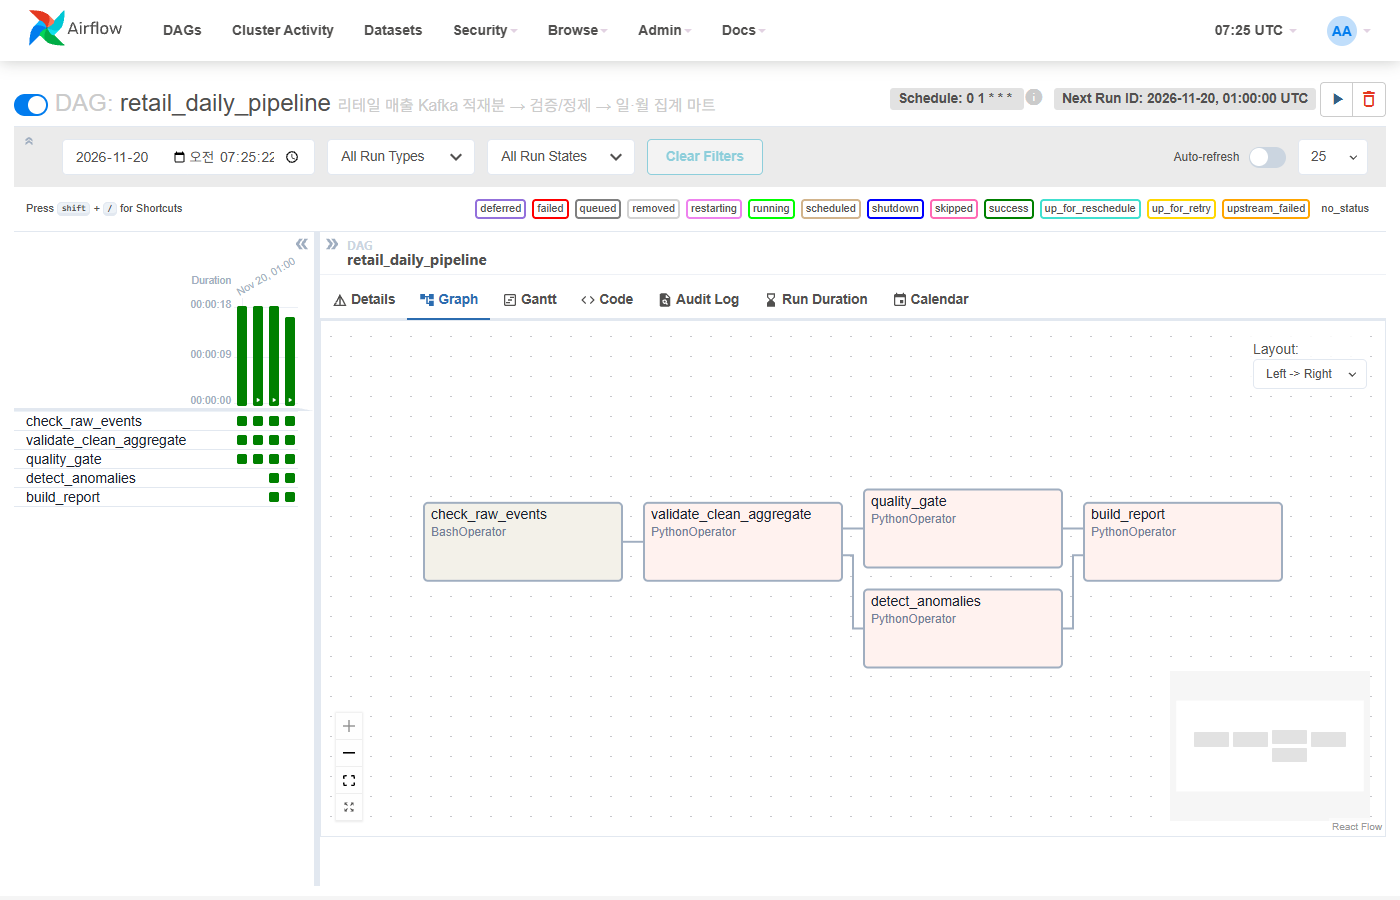
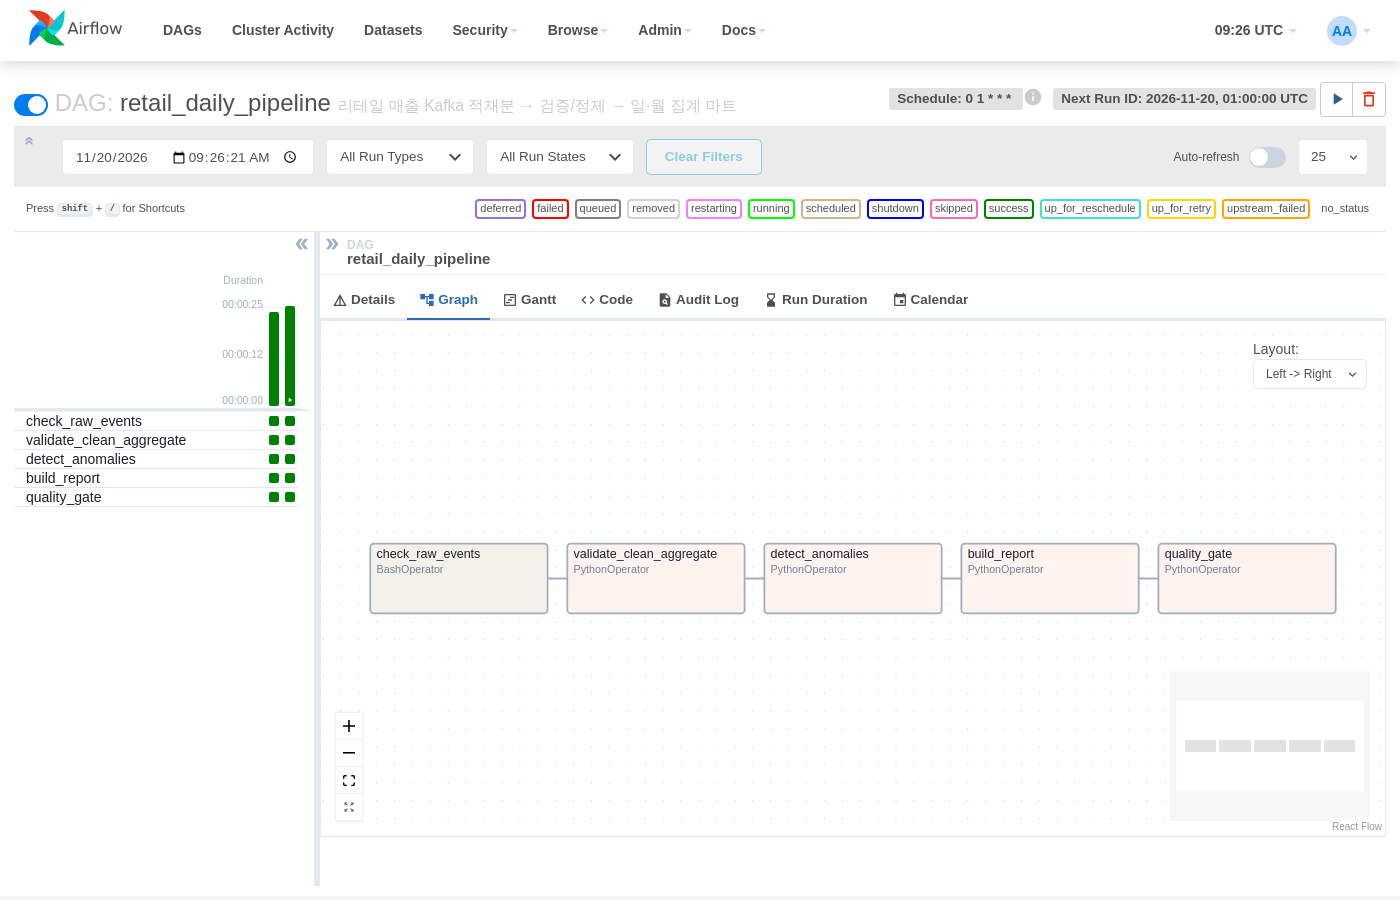
Retail: auto-flag synthetic data, prove the quality gate fails
- ETL: chi-square uniformity check on amount/units -> report warning
- DAG: etl >> detect >> report >> gate, so a failed run still gets its report
- Report: gate pass/fail banner, rejected-by-reason table with examples
- kafka/inject_bad_events.py: 400 bad events (7 rules) via Kafka, --cleanup
- Screenshots 06-10 re-taken, 11-13 for the gate-failure run
- screenshot_retail.js: AIRFLOW_URL override, `fail` mode

diff --git a/tools/screenshot_retail.js b/tools/screenshot_retail.js
@@ -4,8 +4,14 @@ const fs = require('fs');
 
 const ROOT = path.join(__dirname, '..');
 const OUT = path.join(ROOT, 'docs/screenshots');
-const AF = 'http://localhost:8081';
+// 호스트 Chrome이 Docker 포트포워딩과 안 맞으면 컨테이너 안에서 AIRFLOW_URL=http://airflow:8080 으로 실행
+const AF = process.env.AIRFLOW_URL || 'http://localhost:8081';
 const DAG = 'retail_daily_pipeline';
+// 기본: 정상 실행 화면(06~10). `node tools/screenshot_retail.js fail` : 불량 주입 후 게이트 실패 화면(11~13)
+const FAIL = process.argv[2] === 'fail';
+const NAMES = FAIL
+  ? { grid: '11_retail_gate_failed_grid', log: '12_retail_gate_failed_log', report: '13_retail_report_gate_failed' }
+  : { grid: '07_retail_dag_grid', log: '09_retail_quality_gate_log', report: '10_retail_quality_report' };
 fs.mkdirSync(OUT, { recursive: true });
 
 const wait = ms => new Promise(r => setTimeout(r, ms));
@@ -20,29 +26,34 @@ async function shot(page, name, fullPage = true) {
   const page = await browser.newPage();
   await page.setViewport({ width: 1400, height: 900 });
 
-  await page.goto(`${AF}/login`, { waitUntil: 'networkidle2' });
+  await page.goto(`${AF}/login/`, { waitUntil: 'load' });
+  await page.waitForSelector('#username', { timeout: 30000 });
   await page.type('#username', 'admin');
   await page.type('#password', 'admin');
-  await Promise.all([page.waitForNavigation({ waitUntil: 'networkidle2' }), page.click('[type=submit]')]);
+  await Promise.all([page.waitForNavigation({ waitUntil: 'load' }), page.click('[type=submit]')]);
 
-  await page.goto(`${AF}/home`, { waitUntil: 'networkidle2' });
-  await wait(1500);
-  await shot(page, '06_airflow_dags_both', false);
+  if (!FAIL) {
+    await page.goto(`${AF}/home`, { waitUntil: 'load' });
+    await wait(1500);
+    await shot(page, '06_airflow_dags_both', false);
+  }
 
-  await page.goto(`${AF}/dags/${DAG}/grid`, { waitUntil: 'networkidle2' });
+  await page.goto(`${AF}/dags/${DAG}/grid`, { waitUntil: 'load' });
   await wait(2500);
-  await shot(page, '07_retail_dag_grid', false);
+  await shot(page, NAMES.grid, false);
 
-  await page.goto(`${AF}/dags/${DAG}/grid?tab=graph`, { waitUntil: 'networkidle2' });
-  await wait(3000);
-  await shot(page, '08_retail_dag_graph', false);
+  if (!FAIL) {
+    await page.goto(`${AF}/dags/${DAG}/grid?tab=graph`, { waitUntil: 'load' });
+    await wait(3000);
+    await shot(page, '08_retail_dag_graph', false);
+  }
 
   const runs = await page.evaluate(async (dag) => (await (await fetch(`/api/v1/dags/${dag}/dagRuns?order_by=-execution_date&limit=1`)).json()), DAG);
   const runId = runs.dag_runs && runs.dag_runs[0] && runs.dag_runs[0].dag_run_id;
   if (runId) {
-    await page.goto(`${AF}/dags/${DAG}/grid?dag_run_id=${encodeURIComponent(runId)}&task_id=quality_gate&tab=logs`, { waitUntil: 'networkidle2' });
+    await page.goto(`${AF}/dags/${DAG}/grid?dag_run_id=${encodeURIComponent(runId)}&task_id=quality_gate&tab=logs`, { waitUntil: 'load' });
     await wait(3500);
-    await shot(page, '09_retail_quality_gate_log', false);
+    await shot(page, NAMES.log, false);
   } else {
     console.log('no dag run found, skipping log screenshot', JSON.stringify(runs).slice(0, 200));
   }
@@ -52,7 +63,7 @@ async function shot(page, name, fullPage = true) {
   // DAG 의 build_report 태스크가 만든 실제 산출물을 그대로 연다
   const reportFile = path.join(ROOT, 'data/retail/quality/report.html');
   await rp.goto(require('url').pathToFileURL(reportFile).href, { waitUntil: 'load' });
-  await shot(rp, '10_retail_quality_report');
+  await shot(rp, NAMES.report);
 
   await browser.close();
   console.log('done');

diff --git a/etl/retail_report.py b/etl/retail_report.py
@@ -10,6 +10,8 @@ import html
 import json
 import os
 
+from retail_etl import MAX_REJECTED_RATE
+
 BASE = os.getenv("RETAIL_DATA_DIR", "/opt/airflow/data/retail")
 
 
@@ -51,7 +53,21 @@ th{color:var(--muted);font-weight:600}.bar{background:var(--bar);height:10px;bor
 .warn{background:var(--warnbg);border:1px solid var(--warnline);border-radius:8px;padding:10px 14px;margin:6px 0;font-size:14px}
 .cols{display:grid;grid-template-columns:repeat(auto-fit,minmax(420px,1fr));gap:24px}
 .yes{font-weight:600}.no{color:var(--muted)}
+.gate{border-radius:8px;padding:12px 16px;margin:0 0 20px;font-size:15px;font-weight:600;border:1px solid}
+.gate.fail{background:var(--failbg);border-color:var(--failline)}.gate.pass{background:var(--passbg);border-color:var(--passline)}
+.gate .d{font-weight:400;font-size:13px;margin-top:4px}
+:root{--failbg:#ffebe9;--failline:#cf222e;--passbg:#dafbe1;--passline:#1a7f37}
+@media (prefers-color-scheme: dark){:root{--failbg:#3c1618;--failline:#da3633;--passbg:#0f2d1a;--passline:#2ea043}}
 """
+
+REASON_KO = {
+    "missing_store_id": "매장 ID 누락", "missing_date": "날짜 누락", "missing_product_id": "상품 ID 누락",
+    "missing_sales_amount": "매출액 누락", "missing_units_sold": "수량 누락",
+    "bad_date": "날짜 파싱 실패", "future_date": "미래 날짜", "bad_amount": "매출액 파싱 실패",
+    "non_positive_amount": "매출액 ≤ 0", "amount_too_large": "매출액 상한 초과",
+    "bad_units": "수량 파싱 실패", "fractional_units": "소수 수량", "non_positive_units": "수량 ≤ 0",
+    "units_too_large": "수량 상한 초과", "duplicate_transaction": "업무 중복 거래",
+}
 
 
 def build():
@@ -75,6 +91,28 @@ def build():
 {kpi('단가 이상치 (룰)', f"{rep['flagged_price_outliers']} ({rep['flagged_rate']:.1%})")}
 {kpi('ML 다수결 이상', n(ml['majority']) if ml else '-')}
 </div>"""]
+
+    failed = rep["rejected_rate"] > MAX_REJECTED_RATE
+    parts.append(
+        f'<div class="gate {"fail" if failed else "pass"}">'
+        f'{"✕ 품질 게이트 실패 - 이 실행의 마트는 사용하면 안 됨" if failed else "✓ 품질 게이트 통과"}'
+        f'<div class="d">규칙 위반 {n(rep["rejected"])} / {n(rep["unique_events"])}건 = {rep["rejected_rate"]:.2%}'
+        f' (기준 {MAX_REJECTED_RATE:.0%} 이하)</div></div>')
+
+    if rep["rejected"]:
+        examples = {}
+        for r in _read_jsonl("quality", "rejected.jsonl", limit=10**9):
+            for e in r["errors"]:
+                examples.setdefault(e, r)
+        parts.append('<h2>규칙 위반 사유 (quality/rejected.jsonl)</h2><table><tr><th>사유</th><th>건수</th>'
+                     '<th>날짜</th><th>매장</th><th>매출액</th><th>수량</th></tr>')
+        for reason, cnt in sorted(rep["rejected_by_reason"].items(), key=lambda x: -x[1]):
+            ex = examples.get(reason, {})
+            cells = "".join(f"<td>{html.escape(str(ex.get(c, '')))}</td>"
+                            for c in ("date", "store_id", "sales_amount", "units_sold"))
+            parts.append(f'<tr><td>{REASON_KO.get(reason, reason)} <span class="no">{reason}</span></td>'
+                         f'<td>{n(cnt)}</td>{cells}</tr>')
+        parts.append("</table>")
 
     if rep["warnings"]:
         parts.append("<h2>품질 경고</h2>" + "".join(f'<div class="warn">⚠ {html.escape(w)}</div>' for w in rep["warnings"]))

diff --git a/kafka/inject_bad_events.py b/kafka/inject_bad_events.py
@@ -1,0 +1,72 @@
+"""
+품질 게이트 시연용 - 규칙 위반 이벤트를 retail-sales 토픽에 섞어 보낸다.
+
+정상 경로(Kafka → retail-consumer → raw JSONL)를 그대로 타므로 ETL 입장에서는 실제 불량 데이터와 같다.
+400건을 보내면 5,000 + 400 중 rejected 비율이 7.4%가 되어 게이트 기준(5%)을 넘는다.
+
+  주입 : docker compose run --rm retail-producer python inject_bad_events.py
+  정리 : docker compose stop retail-consumer
+         docker compose run --rm retail-producer python inject_bad_events.py --cleanup
+         docker compose start retail-consumer
+
+주입 이벤트는 "injected": true 와 event_seq 1,000,001부터의 번호를 달아 원본(1~5,000)과 구분한다.
+"""
+import csv
+import json
+import os
+import sys
+
+CSV_PATH = os.getenv("RETAIL_CSV", "/app/data/raw/retail_sales_performance.csv")
+RAW = "/app/data/retail/raw/sales_events.jsonl"
+TOPIC = os.getenv("RETAIL_TOPIC", "retail-sales")
+SEQ_BASE = 1_000_000
+
+# (규칙, 건수, 원본 행 → 불량 행)
+CASES = [
+    ("missing_store_id",      60, lambda r: {**r, "store_id": ""}),
+    ("bad_date",              60, lambda r: {**r, "date": "2023-13-45"}),
+    ("future_date",           60, lambda r: {**r, "date": "2099-01-01"}),
+    ("non_positive_amount",   60, lambda r: {**r, "sales_amount": "-" + r["sales_amount"]}),
+    ("fractional_units",      60, lambda r: {**r, "units_sold": "2.5"}),
+    ("amount_too_large",      50, lambda r: {**r, "sales_amount": "5000000"}),
+    ("duplicate_transaction", 50, lambda r: dict(r)),  # 같은 거래를 새 event_seq 로 한 번 더
+]
+
+
+def inject():
+    from kafka import KafkaProducer
+
+    with open(CSV_PATH, encoding="utf-8") as f:
+        rows = list(csv.DictReader(f))
+    producer = KafkaProducer(
+        bootstrap_servers=os.getenv("KAFKA_BOOTSTRAP_SERVERS", "kafka:9092"),
+        key_serializer=lambda k: k.encode("utf-8"),
+        value_serializer=lambda v: json.dumps(v).encode("utf-8"),
+        acks="all",
+    )
+    seq, i = SEQ_BASE, 0
+    for rule, n, make in CASES:
+        for _ in range(n):
+            seq += 1
+            bad = {**make(rows[i % len(rows)]), "event_seq": seq, "injected": True}
+            producer.send(TOPIC, key=bad["store_id"] or "none", value=bad)
+            i += 1
+        print(f"[INJECT] {rule:<22} {n}")
+    producer.flush()
+    print(f"[INJECT] sent {seq - SEQ_BASE} bad events -> '{TOPIC}'")
+
+
+def cleanup():
+    """raw JSONL 에서 주입 이벤트만 걷어낸다. consumer 를 멈춘 상태에서 실행할 것 (파일을 바꿔치기함)."""
+    with open(RAW, encoding="utf-8") as f:
+        lines = f.readlines()
+    keep = [ln for ln in lines if '"injected": true' not in ln]
+    tmp = RAW + ".tmp"
+    with open(tmp, "w", encoding="utf-8") as f:
+        f.writelines(keep)
+    os.replace(tmp, RAW)
+    print(f"[INJECT] removed {len(lines) - len(keep)} injected lines, {len(keep)} kept")
+
+
+if __name__ == "__main__":
+    cleanup() if "--cleanup" in sys.argv else inject()

diff --git a/etl/retail_etl.py b/etl/retail_etl.py
@@ -26,6 +26,7 @@ RAW = os.path.join(BASE, "raw", "sales_events.jsonl")
 # 단가(sales_amount / units_sold) 이상치 기준: log 단가의 robust z-score
 PRICE_Z_THRESHOLD = float(os.getenv("PRICE_Z_THRESHOLD", "3.5"))
 MAX_UNITS = 10_000          # 한 거래에 이 이상이면 입력 오류로 간주
+MAX_REJECTED_RATE = 0.05    # 품질 게이트: 규칙 위반 비율이 이보다 크면 DAG 실패 (DAG·리포트가 같이 쓴다)
 MAX_AMOUNT = 1_000_000
 
 
@@ -204,6 +205,8 @@ def run():
         "unique_products": len({r["product_id"] for r in clean}),
         # 매출액과 판매수량은 보통 강한 양의 상관. 0 근처면 원천 데이터 의심 신호.
         "corr_amount_units": round(statistics.correlation(amounts, units), 3),
+        # 실제 거래의 금액·수량은 소액/소량 쪽에 몰린다. 균일 분포와 구분이 안 되면 난수 생성 의심.
+        "uniform_chi2": {"sales_amount": uniform_chi2(amounts), "units_sold": uniform_chi2(units)},
     }
     report["warnings"] = quality_warnings(report)
     with open(_path("quality", "report.json"), "w", encoding="utf-8") as f:
@@ -213,9 +216,31 @@ def run():
     return report
 
 
+UNIFORM_BINS = 10
+# 자유도 9, 유의수준 1%의 카이제곱 임계값. 이보다 작으면 "균일 분포가 아니다"라고 말할 근거가 없다.
+UNIFORM_CHI2_CRIT = 21.67
+
+
+def uniform_chi2(values, bins=UNIFORM_BINS):
+    """[min, max]를 같은 폭 bins개 구간으로 나눠, 균일 분포 기대 빈도와의 카이제곱 통계량."""
+    lo, hi = min(values), max(values)
+    if hi == lo:
+        return None
+    counts = [0] * bins
+    for v in values:
+        counts[min(bins - 1, int((v - lo) / (hi - lo) * bins))] += 1
+    exp = len(values) / bins
+    return round(sum((c - exp) ** 2 / exp for c in counts), 2)
+
+
 def quality_warnings(rep):
     w = []
-    if rep["rejected_rate"] > 0.05:
+    chi = rep["uniform_chi2"]
+    uniform = [k for k, v in chi.items() if v is not None and v < UNIFORM_CHI2_CRIT]
+    if len(uniform) == len(chi):
+        w.append("매출액·수량이 모두 균일 분포와 구분되지 않음 "
+                 f"(χ² {chi['sales_amount']}, {chi['units_sold']} < {UNIFORM_CHI2_CRIT}) - 난수로 생성된 합성 데이터일 가능성")
+    if rep["rejected_rate"] > MAX_REJECTED_RATE:
         w.append(f"규칙 위반 비율 {rep['rejected_rate']:.1%} - 원천 시스템 점검 필요")
     if rep["flagged_rate"] > 0.02:
         w.append(f"단가 이상치 비율 {rep['flagged_rate']:.1%} - 가격/수량 입력 검토 필요")

diff --git a/airflow/dags/retail_daily_pipeline.py b/airflow/dags/retail_daily_pipeline.py
@@ -2,9 +2,13 @@
 Airflow DAG - 리테일 매출 ETL (매일 01:00)
 1. raw 적재 확인 (Kafka retail-consumer 가 쌓은 JSONL)
 2. 검증/정제/집계 (etl/retail_etl.py)
-3. 품질 게이트: 규칙 위반 비율이 임계치를 넘으면 실패 처리
-4. ML 이상탐지: 관세 파이프라인과 같은 IF · LOF · Autoencoder (etl/retail_anomaly.py)
-5. 리포트: quality/report.html 생성 (etl/retail_report.py)
+3. ML 이상탐지: 관세 파이프라인과 같은 IF · LOF · Autoencoder (etl/retail_anomaly.py)
+4. 리포트: quality/report.html 생성 (etl/retail_report.py)
+5. 품질 게이트: 규칙 위반 비율이 임계치를 넘으면 실패 처리
+
+게이트를 리포트 뒤에 둔다. 게이트가 실패하는 날이 리포트가 가장 필요한 날이기 때문 -
+게이트가 앞에 있으면 실패 시 build_report 가 upstream_failed 로 건너뛰어진다.
+게이트가 마지막(leaf) 태스크라서 게이트가 실패하면 DAG run 도 failed 가 된다.
 """
 import json
 import sys
@@ -18,7 +22,6 @@ from airflow.operators.python import PythonOperator
 sys.path.insert(0, "/opt/airflow/etl")
 
 REPORT = "/opt/airflow/data/retail/quality/report.json"
-MAX_REJECTED_RATE = 0.05
 
 default_args = {
     "owner": "zeldaim",
@@ -43,13 +46,17 @@ def build_report():
 
 
 def quality_gate():
+    from retail_etl import MAX_REJECTED_RATE
     with open(REPORT, encoding="utf-8") as f:
         rep = json.load(f)
     for w in rep["warnings"]:
         print(f"[WARN] {w}")
+    for reason, cnt in sorted(rep["rejected_by_reason"].items(), key=lambda x: -x[1]):
+        print(f"[REJECTED] {reason:<24} {cnt}")
     if rep["rejected_rate"] > MAX_REJECTED_RATE:
         raise AirflowFailException(
-            f"rejected_rate {rep['rejected_rate']:.2%} > {MAX_REJECTED_RATE:.0%}")
+            f"rejected_rate {rep['rejected_rate']:.2%} > {MAX_REJECTED_RATE:.0%} "
+            f"({rep['rejected']}/{rep['unique_events']}) - see quality/report.html")
     print(f"[OK] clean={rep['clean']} rejected={rep['rejected']} "
           f"flagged={rep['flagged_price_outliers']}")
 
@@ -78,4 +85,4 @@ with DAG(
 
     report = PythonOperator(task_id="build_report", python_callable=build_report)
 
-    check_raw >> etl >> [gate, detect] >> report
+    check_raw >> etl >> detect >> report >> gate
